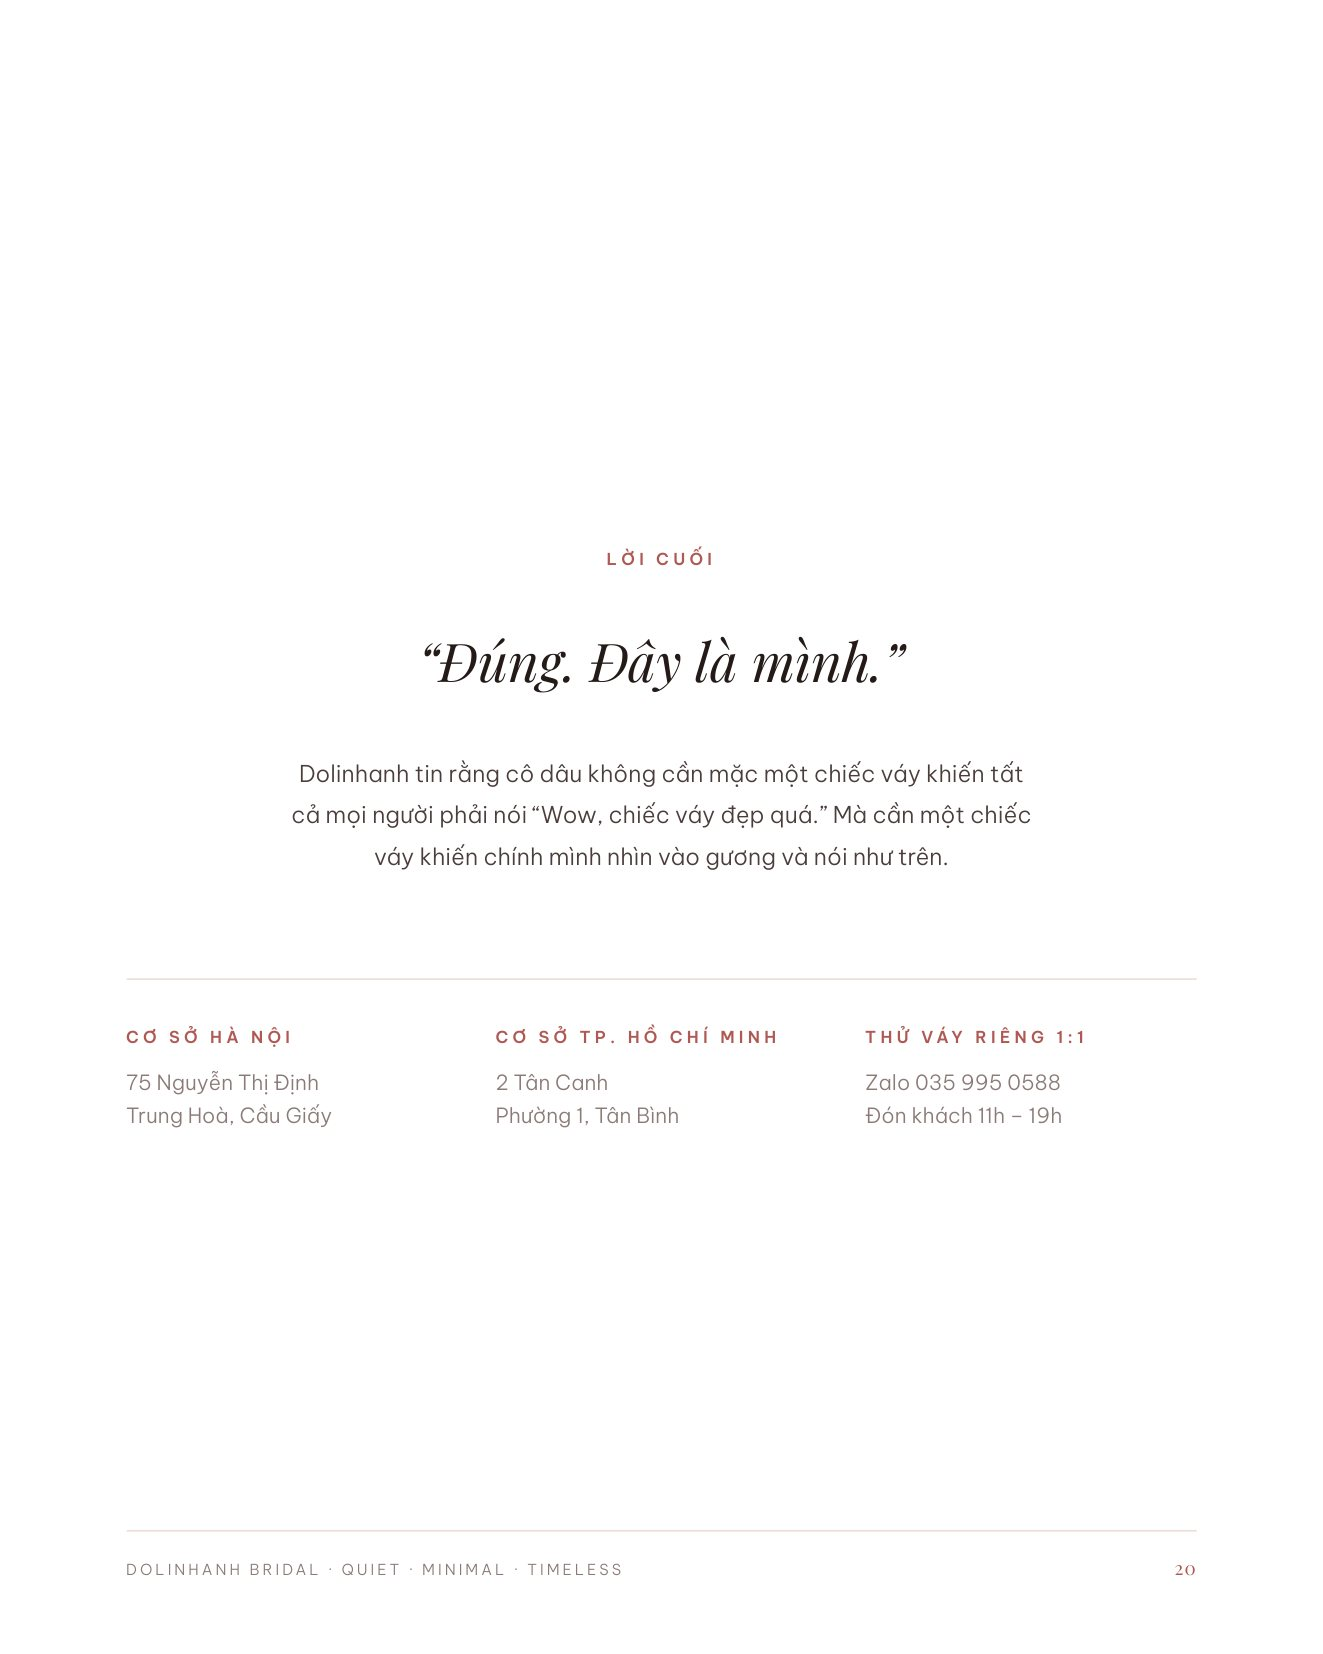
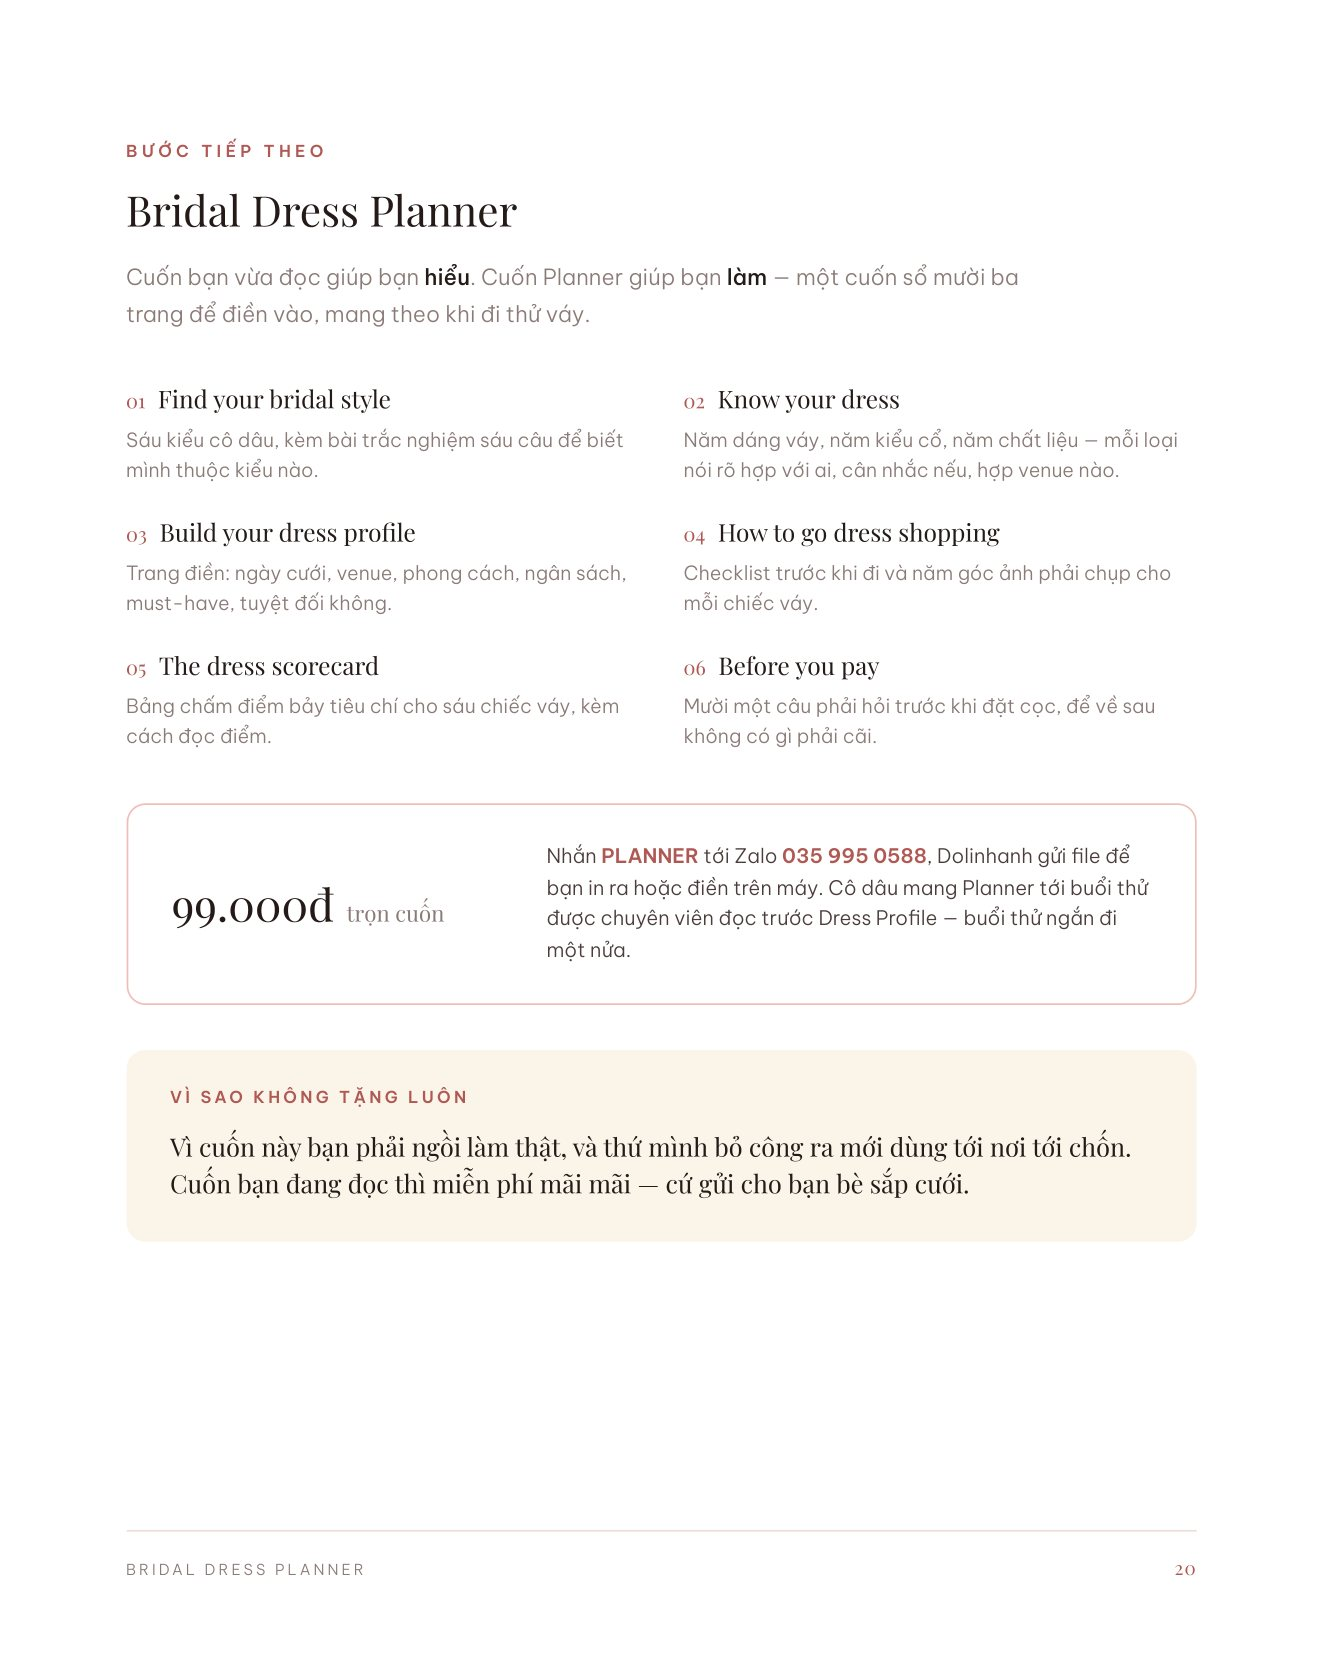
Ebook: them trang gioi thieu Bridal Dress Planner 99k + diem bam mo Zalo

diff --git a/dress-guide.html b/dress-guide.html
@@ -4,7 +4,7 @@
 <meta charset="utf-8">
 <meta name="viewport" content="width=device-width,initial-scale=1">
 <meta name="description" content="Cẩm nang tặng cô dâu: 7 điều cần biết trước khi chọn váy cưới — Dolinhanh Bridal.">
-<script>window.__ANH__=["dress-guide/t01.jpg?v=w6", "dress-guide/t02.jpg?v=w6", "dress-guide/t03.jpg?v=w6", "dress-guide/t04.jpg?v=w6", "dress-guide/t05.jpg?v=w6", "dress-guide/t06.jpg?v=w6", "dress-guide/t07.jpg?v=w6", "dress-guide/t08.jpg?v=w6", "dress-guide/t09.jpg?v=w6", "dress-guide/t10.jpg?v=w6", "dress-guide/t11.jpg?v=w6", "dress-guide/t12.jpg?v=w6", "dress-guide/t13.jpg?v=w6", "dress-guide/t14.jpg?v=w6", "dress-guide/t15.jpg?v=w6", "dress-guide/t16.jpg?v=w6", "dress-guide/t17.jpg?v=w6", "dress-guide/t18.jpg?v=w6", "dress-guide/t19.jpg?v=w6", "dress-guide/t20.jpg?v=w6"];window.__DIEM__=[{"p": 4, "x": 0.1734, "y": 0.205, "w": 0.1416, "h": 0.0173, "nhan": "Chuẩn bị trước buổi thử", "ten": "Đồ lót nào mặc được?", "mo": "Nguyên tắc chung: màu nude, không quai, không gọng to, không đường viền. Bốn kiểu trong hình đều dùng được cho gần như mọi mẫu váy. Phần lớn váy cưới đã có corset nâng và mút đệm ngực khâu sẵn — nhiều cô dâu chỉ mặc quần lót nude là đủ.", "anh": "dress-guide/hs-dolot.jpg?v=w6", "toi": 5}, {"p": 4, "x": 0.2255, "y": 0.2635, "w": 0.3537, "h": 0.0173, "nhan": "Chuẩn bị trước buổi thử", "ten": "Ngày cưới nên mang mấy đôi?", "mo": "Ba đôi là đủ cho mọi tình huống. Đế bánh mì đi trong váy xoè — tùng váy che kín dép, đứng cả buổi không mỏi chân. Cao gót cho những mẫu hở chân như đuôi cá hay xẻ tà, gót 5–7cm là vừa. Và một đôi đế thấp để trong phòng chờ, khi chân đã mỏi thì thay ra.", "anh": "dress-guide/hs-giay.jpg?v=w6", "toi": 6}, {"p": 4, "x": 0.3357, "y": 0.4127, "w": 0.1988, "h": 0.0173, "nhan": "Chuẩn bị trước buổi thử", "ten": "Vì sao lại là 5 mẫu?", "mo": "Năm mẫu vừa đủ để so bốn dáng cơ bản và thêm một mẫu “lạ” cho biết, mà không loạn. Gửi trước danh sách cho studio để váy được treo sẵn — đỡ mất ba mươi phút đầu buổi chỉ để đi tìm váy."}];</script>
+<script>window.__ANH__=["dress-guide/t01.jpg?v=w7", "dress-guide/t02.jpg?v=w7", "dress-guide/t03.jpg?v=w7", "dress-guide/t04.jpg?v=w7", "dress-guide/t05.jpg?v=w7", "dress-guide/t06.jpg?v=w7", "dress-guide/t07.jpg?v=w7", "dress-guide/t08.jpg?v=w7", "dress-guide/t09.jpg?v=w7", "dress-guide/t10.jpg?v=w7", "dress-guide/t11.jpg?v=w7", "dress-guide/t12.jpg?v=w7", "dress-guide/t13.jpg?v=w7", "dress-guide/t14.jpg?v=w7", "dress-guide/t15.jpg?v=w7", "dress-guide/t16.jpg?v=w7", "dress-guide/t17.jpg?v=w7", "dress-guide/t18.jpg?v=w7", "dress-guide/t19.jpg?v=w7", "dress-guide/t20.jpg?v=w7", "dress-guide/t21.jpg?v=w7"];window.__DIEM__=[{"p": 4, "x": 0.1734, "y": 0.205, "w": 0.1416, "h": 0.0173, "nhan": "Chuẩn bị trước buổi thử", "ten": "Đồ lót nào mặc được?", "mo": "Nguyên tắc chung: màu nude, không quai, không gọng to, không đường viền. Bốn kiểu trong hình đều dùng được cho gần như mọi mẫu váy. Phần lớn váy cưới đã có corset nâng và mút đệm ngực khâu sẵn — nhiều cô dâu chỉ mặc quần lót nude là đủ.", "anh": "dress-guide/hs-dolot.jpg?v=w7", "toi": 5}, {"p": 4, "x": 0.2255, "y": 0.2635, "w": 0.3537, "h": 0.0173, "nhan": "Chuẩn bị trước buổi thử", "ten": "Ngày cưới nên mang mấy đôi?", "mo": "Ba đôi là đủ cho mọi tình huống. Đế bánh mì đi trong váy xoè — tùng váy che kín dép, đứng cả buổi không mỏi chân. Cao gót cho những mẫu hở chân như đuôi cá hay xẻ tà, gót 5–7cm là vừa. Và một đôi đế thấp để trong phòng chờ, khi chân đã mỏi thì thay ra.", "anh": "dress-guide/hs-giay.jpg?v=w7", "toi": 6}, {"p": 4, "x": 0.3357, "y": 0.4127, "w": 0.1988, "h": 0.0173, "nhan": "Chuẩn bị trước buổi thử", "ten": "Vì sao lại là 5 mẫu?", "mo": "Năm mẫu vừa đủ để so bốn dáng cơ bản và thêm một mẫu “lạ” cho biết, mà không loạn. Gửi trước danh sách cho studio để váy được treo sẵn — đỡ mất ba mươi phút đầu buổi chỉ để đi tìm váy."}, {"p": 20, "x": 0.115, "y": 0.52, "w": 0.155, "h": 0.048, "nhan": "Bước tiếp theo", "ten": "Bridal Dress Planner — 99.000đ", "mo": "Cuốn sổ mười ba trang để bạn điền vào: soi phong cách, học tên dáng váy và kiểu cổ, dựng Dress Profile của mình, chấm điểm từng chiếc váy đã thử, và mười một câu phải hỏi trước khi đặt cọc. Nhắn chữ PLANNER tới Zalo 035 995 0588, Dolinhanh gửi file để bạn in ra hoặc điền trên máy.", "anh": "dress-guide/hs-planner.jpg?v=w7", "lien": "https://zalo.me/0359950588", "nutChu": "Nhắn Zalo nhận Planner"}, {"p": 20, "x": 0.575, "y": 0.5045, "w": 0.145, "h": 0.0195, "nhan": "Bước tiếp theo", "ten": "Nhắn PLANNER là nhận được", "mo": "Nhắn chữ PLANNER tới Zalo 035 995 0588. Dolinhanh gửi lại file Bridal Dress Planner để bạn in ra hoặc điền trên máy — mang theo khi đi thử váy.", "lien": "https://zalo.me/0359950588", "nutChu": "Mở Zalo 035 995 0588"}];</script>
 </head>
 <body>
 <title>The Bride's Dress Guide</title>
@@ -266,7 +266,11 @@
     document.getElementById('hop-ten').textContent = d.ten;
     document.getElementById('hop-mo').textContent = d.mo;
     var nut = document.getElementById('hop-di');
-    if (d.toi){
+    if (d.lien){
+      nut.hidden = false;
+      nut.textContent = d.nutChu || 'Mở liên kết';
+      nut.onclick = function(){ window.open(d.lien, '_blank', 'noopener'); };
+    } else if (d.toi){
       nut.hidden = false;
       nut.textContent = 'Mở trang ' + (d.toi < 10 ? '0' : '') + d.toi;
       nut.onclick = function(){
